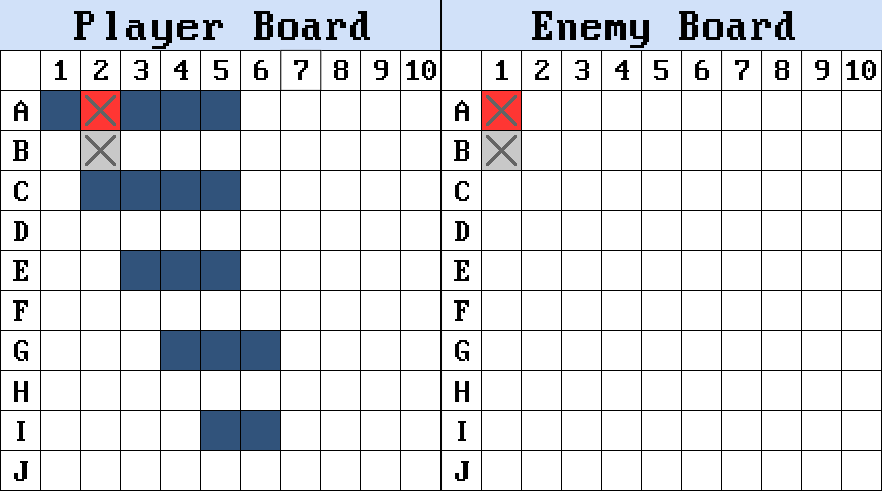
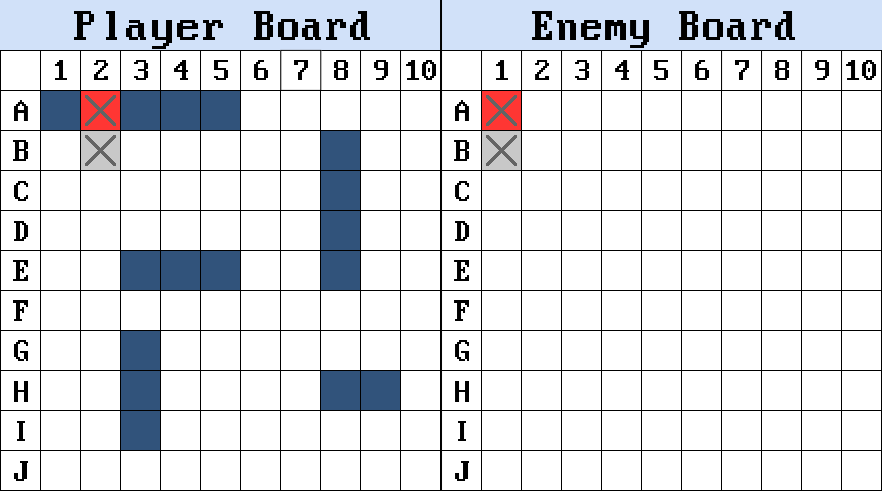
Change some of the test ships to be vertical

diff --git a/image_test.go b/image_test.go
@@ -45,10 +45,10 @@ func TestDrawBaseImage(t *testing.T) {
 	}
 
 	gameBoardImage.playerImage.PlaceAircraftCarrier(0, 0, Horizontal)
-	gameBoardImage.playerImage.PlaceBattleship(1, 2, Horizontal)
+	gameBoardImage.playerImage.PlaceBattleship(7, 1, Vertical)
 	gameBoardImage.playerImage.PlaceSubmarine(2, 4, Horizontal)
-	gameBoardImage.playerImage.PlaceCruiser(3, 6, Horizontal)
-	gameBoardImage.playerImage.PlaceDestroyer(4, 8, Horizontal)
+	gameBoardImage.playerImage.PlaceCruiser(2, 6, Vertical)
+	gameBoardImage.playerImage.PlaceDestroyer(7, 7, Horizontal)
 
 	gameBoardImage.playerImage.DrawHit(1, 0)
 	gameBoardImage.playerImage.DrawMiss(1, 1)
